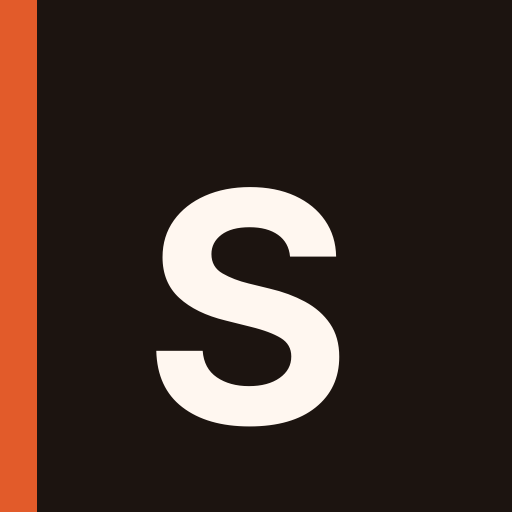
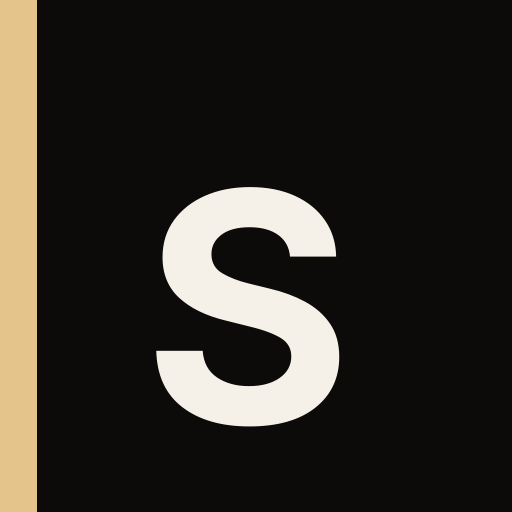
Restyle the live app in the premium dark theme.
Swap the cream palette for quiet dark cards and a gold accent across every screen, including the link-preview card and the PWA colors. Share, identity, demo reset, and the cost rules stay as they were.

Changed region(s): [[0.0, 0.0, 0.0938, 1.0]]

diff --git a/src/app/globals.css b/src/app/globals.css
@@ -3,37 +3,37 @@
 @theme inline {
   --font-sans: var(--font-outfit), ui-sans-serif, system-ui, sans-serif;
   --font-serif: var(--font-fraunces), ui-serif, Georgia, serif;
-  --color-paper: #efe6da;
-  --color-card: #fffdf9;
-  --color-ink: #241910;
-  --color-muted: #74685c;
-  --color-line: #e4d5c4;
-  --color-chip: #f6efe6;
-  --color-accent: #9c3418;
-  --color-accent-ink: #fff8f4;
-  --color-good: #1c6b43;
-  --color-good-soft: #e4f5eb;
-  --color-warn: #8a5a00;
-  --color-warn-soft: #fff3d4;
-  --color-bad: #9f1239;
-  --color-bad-soft: #fde7ee;
+  --color-paper: #0c0b0a;
+  --color-card: #221c18;
+  --color-ink: #f6f1e8;
+  --color-muted: #b3a89c;
+  --color-line: #3a322c;
+  --color-chip: #2a241f;
+  --color-accent: #e4c48a;
+  --color-accent-ink: #1a120c;
+  --color-good: #b7e0c8;
+  --color-good-soft: #1a2e24;
+  --color-warn: #e4c48a;
+  --color-warn-soft: #2c2416;
+  --color-bad: #f0b4c2;
+  --color-bad-soft: #3a1822;
 }
 
 html {
   background: var(--color-paper);
+  color-scheme: dark;
 }
 
 body {
   margin: 0;
-  background:
-    radial-gradient(1200px 500px at 50% -10%, rgba(156, 52, 24, 0.08), transparent 50%),
-    var(--color-paper);
+  background: var(--color-paper);
   color: var(--color-ink);
   font-family: var(--font-sans);
 }
 
 ::selection {
-  background: #f3c7b6;
+  background: #e4c48a;
+  color: #1a120c;
 }
 
 :focus-visible {

diff --git a/src/components/identify.tsx b/src/components/identify.tsx
@@ -22,7 +22,7 @@ export function Identify({
 
   if (!open) return null;
   return (
-    <div className="fixed inset-0 z-30 flex items-end bg-ink/40 p-3 md:items-center md:justify-center">
+    <div className="fixed inset-0 z-30 flex items-end bg-black/70 p-3 md:items-center md:justify-center">
       <div className="w-full max-w-lg rounded-3xl bg-card p-4 shadow-xl">
         <p className="text-xs font-semibold uppercase tracking-[0.16em] text-accent">Who are you?</p>
         <h2 className="mt-1 font-serif text-3xl">One tap, then you&apos;re in.</h2>
@@ -32,7 +32,7 @@ export function Identify({
             <form key={member.userId} action={switchUserAction}>
               <input type="hidden" name="tripId" value={tripId} />
               <input type="hidden" name="userId" value={member.userId} />
-              <button className="flex w-full items-center justify-between rounded-2xl border border-line px-3 py-3 text-left" type="submit">
+              <button className="flex min-h-12 w-full items-center justify-between rounded-2xl border border-line px-3 py-3 text-left" type="submit">
                 <span className="font-semibold">{member.name}</span>
                 <span className="text-xs text-muted">{roleLabel(member.role)}</span>
               </button>

diff --git a/src/lib/og-card.ts b/src/lib/og-card.ts
@@ -85,13 +85,13 @@ export function paintCard(lines: { eyebrow: string; title: string; line: string;
   const width = 1200;
   const height = 630;
   const image = new Uint8ClampedArray(width * height * 4);
-  fill(image, width, 0, 0, width, height, [28, 20, 16]);
-  fill(image, width, 0, 0, 28, height, [226, 91, 42]);
-  fill(image, width, 72, 168, 180, 8, [226, 91, 42]);
-  blitText(image, width, atlas.label, lines.eyebrow, 72, 130, [232, 196, 176]);
-  blitText(image, width, atlas.display, lines.title.slice(0, 28), 72, 280, [255, 247, 240]);
-  blitText(image, width, atlas.body, lines.line.slice(0, 48), 72, 390, [255, 228, 210]);
-  blitText(image, width, atlas.body, lines.foot.slice(0, 48), 72, 500, [232, 196, 176]);
+  fill(image, width, 0, 0, width, height, [12, 11, 10]);
+  fill(image, width, 0, 0, 28, height, [228, 196, 138]);
+  fill(image, width, 72, 168, 180, 8, [228, 196, 138]);
+  blitText(image, width, atlas.label, lines.eyebrow, 72, 130, [228, 196, 138]);
+  blitText(image, width, atlas.display, lines.title.slice(0, 28), 72, 280, [246, 241, 232]);
+  blitText(image, width, atlas.body, lines.line.slice(0, 48), 72, 390, [228, 196, 138]);
+  blitText(image, width, atlas.body, lines.foot.slice(0, 48), 72, 500, [179, 168, 156]);
   return image;
 }
 

diff --git a/src/components/nav.tsx b/src/components/nav.tsx
@@ -15,7 +15,7 @@ const items = [
 export function TripNav({ tripId }: { tripId: string }) {
   const pathname = usePathname();
   return (
-    <nav className="fixed inset-x-0 bottom-0 z-20 border-t border-line bg-card/95 backdrop-blur md:static md:border-t-0 md:bg-transparent">
+    <nav className="fixed inset-x-0 bottom-0 z-20 border-t border-line bg-paper/95 backdrop-blur md:static md:border-t-0 md:bg-transparent">
       <div className="mx-auto flex max-w-lg md:max-w-3xl">
         {items.map((item) => {
           const href = `/trip/${tripId}${item.href}`;
@@ -26,7 +26,7 @@ export function TripNav({ tripId }: { tripId: string }) {
               key={item.label}
               href={href}
               className={cn(
-                "flex flex-1 flex-col items-center gap-1 py-2.5 text-xs font-semibold md:flex-none md:flex-row md:rounded-full md:px-4",
+                "flex min-h-14 flex-1 flex-col items-center justify-center gap-1 py-2 text-xs font-semibold md:min-h-11 md:flex-none md:flex-row md:rounded-full md:px-4",
                 active ? "text-accent" : "text-muted",
               )}
             >

diff --git a/src/components/ui/input.tsx b/src/components/ui/input.tsx
@@ -2,7 +2,7 @@ import * as React from "react";
 import { cn } from "@/lib/utils";
 
 export const fieldClass =
-  "flex h-11 w-full rounded-xl border border-line bg-card px-3 text-base text-ink outline-none placeholder:text-muted focus-visible:border-accent";
+  "flex h-12 w-full rounded-2xl border border-line bg-paper px-3 text-base text-ink outline-none placeholder:text-muted focus-visible:border-accent";
 
 export function Input({ className, ...props }: React.ComponentProps<"input">) {
   return <input className={cn(fieldClass, className)} {...props} />;

diff --git a/src/app/manifest.ts b/src/app/manifest.ts
@@ -7,8 +7,8 @@ export default function manifest(): MetadataRoute.Manifest {
     description: "Plan the bachelor party in the group chat. Vote, see your share, commit.",
     start_url: "/",
     display: "standalone",
-    background_color: "#efe6da",
-    theme_color: "#241910",
+    background_color: "#0c0b0a",
+    theme_color: "#0c0b0a",
     icons: [
       { src: "/icon-192.png", sizes: "192x192", type: "image/png" },
       { src: "/icon-512.png", sizes: "512x512", type: "image/png" },

diff --git a/src/components/share-button.tsx b/src/components/share-button.tsx
@@ -34,7 +34,7 @@ export function ShareButton({
       <button
         type="button"
         onClick={() => void share()}
-        className="inline-flex h-11 items-center rounded-xl bg-ink px-4 text-sm font-semibold text-card"
+        className="inline-flex h-12 items-center rounded-2xl bg-accent px-4 text-sm font-semibold text-accent-ink"
       >
         Send to group chat
       </button>

diff --git a/src/components/ui/button.tsx b/src/components/ui/button.tsx
@@ -15,7 +15,7 @@ const buttonVariants = cva(
         destructive: "bg-bad text-white hover:bg-bad/90",
       },
       size: {
-        default: "h-11 px-4",
+        default: "h-12 rounded-2xl px-4",
         sm: "h-9 rounded-lg px-3 text-xs",
         lg: "h-12 px-5 text-base",
       },

diff --git a/src/app/layout.tsx b/src/app/layout.tsx
@@ -26,7 +26,7 @@ export const metadata: Metadata = {
 export const viewport: Viewport = {
   width: "device-width",
   initialScale: 1,
-  themeColor: "#241910",
+  themeColor: "#0c0b0a",
 };
 
 export const dynamic = "force-dynamic";
